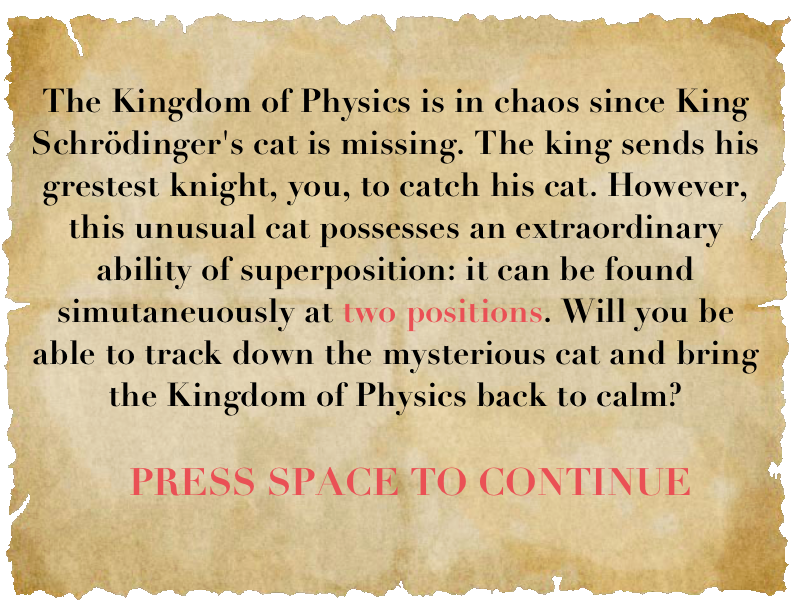
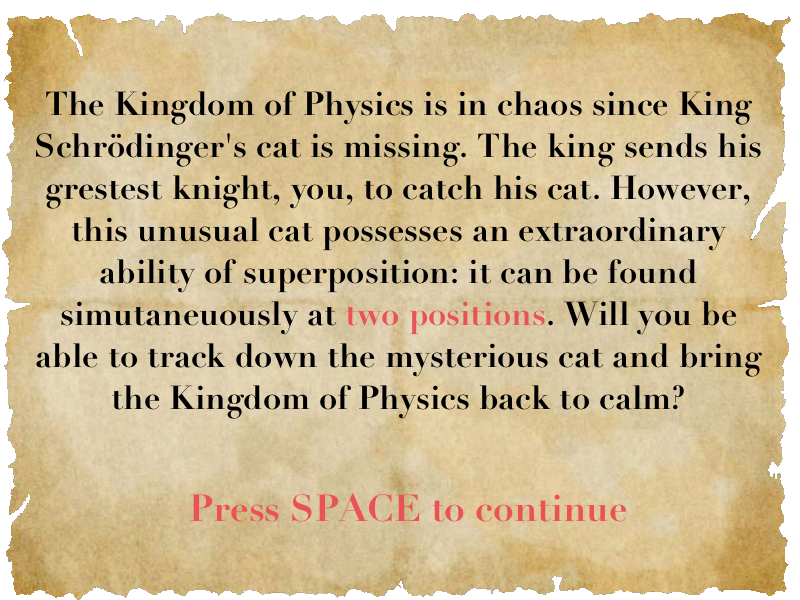
figures

Changed region(s): [[0.0312, 0.15, 0.9688, 0.69], [0.1562, 0.78, 0.875, 0.87]]

diff --git a/src/button.py b/src/button.py
@@ -2,24 +2,35 @@ import pygame
 import numpy as np
 from src.config import Config
 import os
+# def update_piece(game):
+#     state = game.board.cat.state
+#     if np.linalg.norm(state-np.array([1,0])) <=1e-10:
+#             game.board.squares[ game.board.cat.last_location[0]][ game.board.cat.last_location[1]].piece =game.board.cat
+#             game.board.squares[ game.board.cat.location[0]][ game.board.cat.location[1]].piece = None
+
+#     elif np.linalg.norm(state-np.array([0,1])) <=1e-10:
+#             game.board.squares[ game.board.cat.last_location[0]][ game.board.cat.last_location[1]].piece = None
+#             game.board.squares[ game.board.cat.location[0]][ game.board.cat.location[1]].piece = game.board.cat
+#     elif np.linalg.norm(state-np.sqrt(1/2)*np.array([1,1])) <=1e-10:
+#             game.board.squares[ game.board.cat.last_location[0]][ game.board.cat.last_location[1]].piece = game.board.cat
+#             game.board.squares[ game.board.cat.location[0]][ game.board.cat.location[1]].piece = game.board.cat
+
+#     elif np.linalg.norm(state-np.sqrt(1/2)*np.array([1,-1])) <=1e-10:
+#             game.board.squares[ game.board.cat.last_location[0]][ game.board.cat.last_location[1]].piece = game.board.cat
+#             game.board.squares[ game.board.cat.location[0]][ game.board.cat.location[1]].piece = game.board.cat
+
 def update_piece(game):
     state = game.board.cat.state
-    if np.linalg.norm(state-np.array([1,0])) <=1e-10:
-            game.board.squares[ game.board.cat.last_location[0]][ game.board.cat.last_location[1]].piece =game.board.cat
-            game.board.squares[ game.board.cat.location[0]][ game.board.cat.location[1]].piece = None
+    if abs(state[1]) <=1e-3:
+        game.board.squares[ game.board.cat.last_location[0]][ game.board.cat.last_location[1]].piece =game.board.cat
+        game.board.squares[ game.board.cat.location[0]][ game.board.cat.location[1]].piece = None
 
-    elif np.linalg.norm(state-np.array([0,1])) <=1e-10:
-            game.board.squares[ game.board.cat.last_location[0]][ game.board.cat.last_location[1]].piece = None
-            game.board.squares[ game.board.cat.location[0]][ game.board.cat.location[1]].piece = game.board.cat
-    elif np.linalg.norm(state-np.sqrt(1/2)*np.array([1,1])) <=1e-10:
-            game.board.squares[ game.board.cat.last_location[0]][ game.board.cat.last_location[1]].piece = game.board.cat
-            game.board.squares[ game.board.cat.location[0]][ game.board.cat.location[1]].piece = game.board.cat
-
-    elif np.linalg.norm(state-np.sqrt(1/2)*np.array([1,-1])) <=1e-10:
-            game.board.squares[ game.board.cat.last_location[0]][ game.board.cat.last_location[1]].piece = game.board.cat
-            game.board.squares[ game.board.cat.location[0]][ game.board.cat.location[1]].piece = game.board.cat
-
-
+    elif abs(state[0]) <=1e-10:
+        game.board.squares[ game.board.cat.last_location[0]][ game.board.cat.last_location[1]].piece = None
+        game.board.squares[ game.board.cat.location[0]][ game.board.cat.location[1]].piece = game.board.cat
+    else:
+        game.board.squares[ game.board.cat.last_location[0]][ game.board.cat.last_location[1]].piece = game.board.cat
+        game.board.squares[ game.board.cat.location[0]][ game.board.cat.location[1]].piece = game.board.cat
 
 class Button():
 

diff --git a/main.py b/main.py
@@ -29,16 +29,25 @@ class Main:
         board = self.game.board
         dragger = self.game.dragger
         
-        game_state = "start_menu"
+        game_state = "start_pic"
         
 
         tutorial=True
+      
 
         while True:
-            
+            if game_state == 'start_pic':
+                pygame.display.update()
+                game.show_start(main.screen)
+                pygame.display.update()
+                pygame.time.wait(2000)
+                game_state = 'start_menu'
+
             if game_state == 'start_menu':
                 pygame.display.update()
-                game.show_start(screen)
+                game.show_start(main.screen)
+                game.show_starttext(screen)
+                
                 for event in pygame.event.get():
                     if event.type == pygame.KEYDOWN:
                         if event.key == pygame.K_SPACE:
@@ -345,4 +354,5 @@ class Main:
 
 
 main = Main()
+
 main.mainloop()

diff --git a/src/game.py b/src/game.py
@@ -235,7 +235,8 @@ class Game:
         img_center = WIDTH // 2, HEIGHT // 2
         img_rect = img.get_rect(center=img_center)
         surface.blit(img, img_rect)
-        
+
+    def show_starttext(self, surface):
         img_file ='assets/images/imgs-80px/starttext.png'
         img = pygame.image.load(img_file)
         img = pygame.transform.scale(img,(WIDTH,HEIGHT))

diff --git a/README.md b/README.md
@@ -1,8 +1,8 @@
-# \[The name of game\]
+# Catch Schrödinger's Cat
 The Kingdom of Physics is in chaos since King Schrödinger's cat is missing. The king sends his greatest knight, you, to catch his cat. However, this unusual cat possesses an extraordinary ability of superposition: it can be found simultaneously at two positions. Will you be able to track down the mysterious cat and bring the Kingdom of Physics back to calm? 
 
 ## Rules
-The game takes place on a 10 $\times$ 10 chessboard. At each step, the cat can move one square in any direction (the same as Kings in chess), and the knight can move as a "L" shape (the same as Knights in chess). The cat and the knight move alternatively. You are required to use one Knight to capture the cat. 
+The game takes place on a 10 $\times$ 10 chessboard.yEveryday the cat can move one or two squares in any direction (the same as Kings in chess, but it can move one or two steps), and the knight can move as a "L" shape (the same as Knights in chess). The cat and the knight move alternatively. You are required to use one Knight to capture the cat. 
 
 However, the cat can be in a superposition state of two locations: the origin and the destination. It will only collapse to a determined location after the knight makes its move. In order to have a better chance of capturing the cat, you can apply quantum gates on the cat to change its state before moving the knight. You can find four different quantum gates randomly located on the board: Pauli-X gate ($X$), Pauli-Z gate ($Z$), Hadamard gate ($H$), and the phase gate ($S$). Additionally, you can find M on the board representing Measure, which allows you to measure the superposition state before moving the knight.
 
@@ -48,9 +48,10 @@ $$
 H=\frac{1}{\sqrt{2}}\left[\begin{array}{cc}
 1 & 1 \\
 1 & -1
-\end{array}\right]
+\end{array}\right].
 \end{equation}
 $$
+Hadamard gate can be used to change the basis, i.e., $HZH=X$.
 
 Phase gate $S$ is defined as
 $$
@@ -58,10 +59,10 @@ $$
 S=\left[\begin{array}{cc}
 1 & 0 \\
 0 & e^{i \frac{\pi}{2}}
-\end{array}\right]
+\end{array}\right],
 \end{equation}
 $$
-
+It is easy to find that $Z=S^2$.
 ## Strategy Guidance
 As an example, if we want to obtain $\Psi_1 = |1\rangle$ (or $\Psi_2 = |2\rangle$) from $\Psi_{super}=\frac{|1\rangle+|2\rangle}{\sqrt{2}}$, one possible strategy is that first measuring the superposition state (using $M$) and if needed applying Pauli-X gate ($X$) to obtain the desired state. 
 
